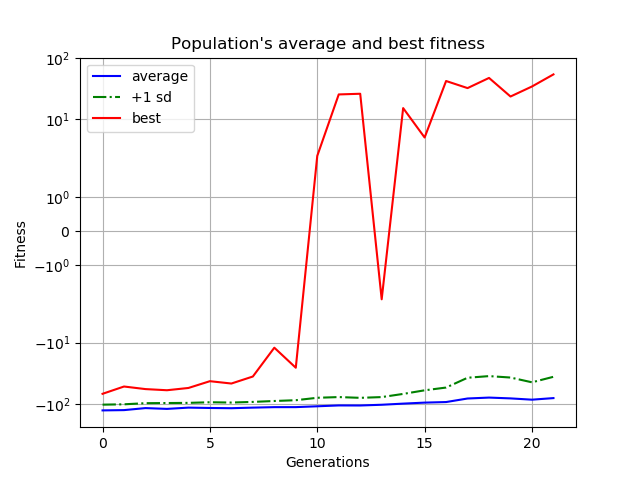
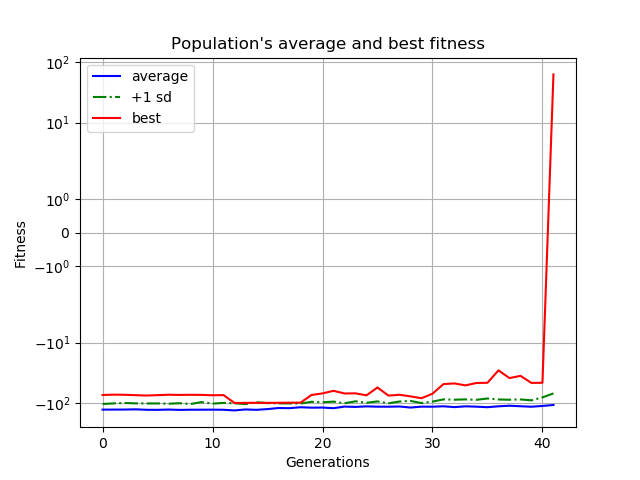
Found a solution that consistently scores >100 total_reward. Satisfied.

diff --git a/BipedalWalker_v3/neat-solution.py b/BipedalWalker_v3/neat-solution.py
@@ -7,7 +7,7 @@ import time
 
 
 # Load the winner from thisisneat.py
-with open('winner-NEAT-pickle', 'rb') as f:
+with open('winner-NEAT-pickle-70-threshold', 'rb') as f:
     c = pickle.load(f)
 
 print('Loaded genome: ')
@@ -15,7 +15,7 @@ print(c)
 
 # Load the config file, which is assumed to live in the same directory as this script. (same config used with thisisneat.py)
 local_dir = os.path.dirname(__file__)
-config_path = os.path.join(local_dir, 'config')
+config_path = os.path.join(local_dir, 'config-70-threshold')
 config = neat.Config(neat.DefaultGenome, neat.DefaultReproduction, neat.DefaultSpeciesSet, neat.DefaultStagnation, config_path)
 
 net = neat.nn.FeedForwardNetwork.create(c, config)
@@ -24,6 +24,8 @@ env = gym.make('BipedalWalker-v3')
 observation = env. reset()
 
 done= False
+
+total_reward = 0
 
 i = 0
 
@@ -34,7 +36,10 @@ while not done:
 
     env.render()
 
+    total_reward += reward
     i += 1
+
+    print(done, i, reward, total_reward)
 
 
     # print(observation[0:4], action, i)

diff --git a/BipedalWalker_v3/pickle-copier.py b/BipedalWalker_v3/pickle-copier.py
@@ -1,0 +1,17 @@
+### this script can take as input a pickle file, and copy it with a new name ###
+
+import pickle
+
+old_filename = 'winner-NEAT-pickle'
+copy = 'winner-NEAT-pickle-70-threshold'
+
+
+# Save the winner.
+with open(copy, 'wb') as perpetual_winner_filehandler: # this is the name of the new winner-pickle that will perpetuate solutions to 'find-genome.py'
+
+    with open(old_filename, 'rb') as transient_winner_filehandler: # this winner is always rewritten over if 'find-genome.py' finds a solution
+        old_winner_data = pickle.load(transient_winner_filehandler)
+
+        pickle.dump(old_winner_data, perpetual_winner_filehandler)
+
+        print("A copy of '{}' was saved to '{}'.".format(old_filename, copy))

diff --git a/BipedalWalker_v3/find-genome.py b/BipedalWalker_v3/find-genome.py
@@ -34,6 +34,7 @@ def eval_genome(genome, config):
             action = net.activate(observation)
             observation, reward, done, info = env.step(action)
             fitness += reward
+            fitness -= 1/32 # transience factor. Want agents to actually walk instead of sit idle after a few frames
 
         fitnesses.append(fitness) # if the same genome does more than one trial, this fxn will add all fitnesses to an array
 
